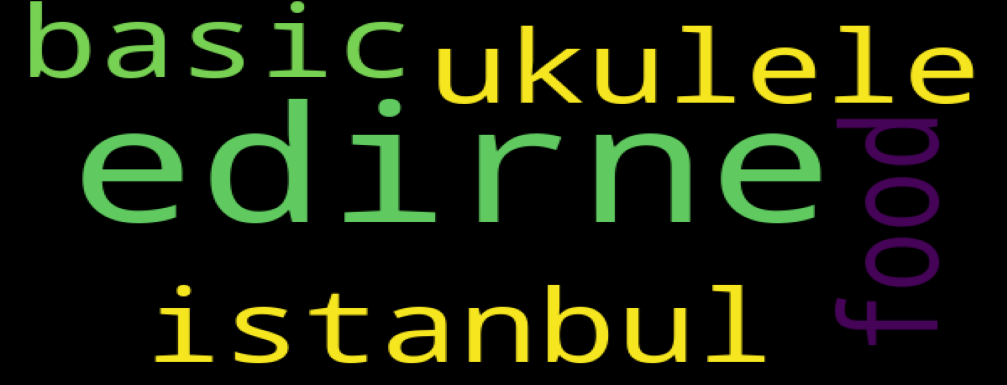
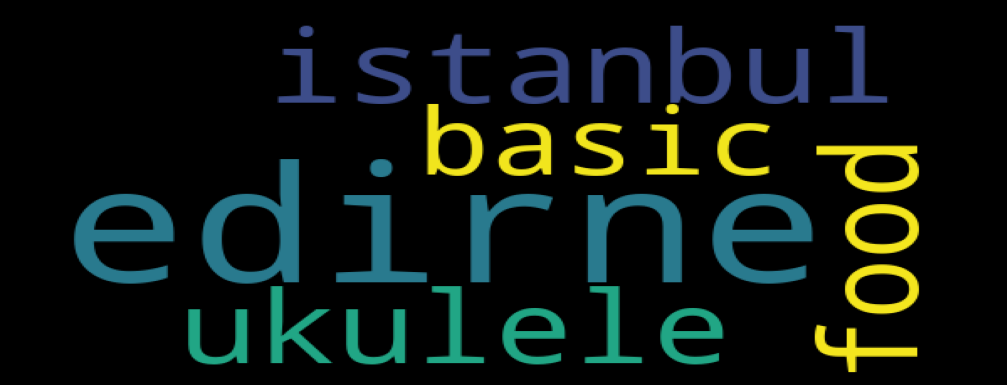
Search logs, hint, wordcloud 2 #228 #230 #231

Changed region(s): [[0.0308, 0.0, 0.9851, 0.9662], [0.2771, 0.0, 0.3078, 0.0312]]

diff --git a/CommUnitySocial/settings.py b/CommUnitySocial/settings.py
@@ -65,6 +65,8 @@ INSTALLED_APPS = [
     'online_users',
     'matplotlib',
     'wiki',
+    'pandas',
+    'wordcloud',
 ]
 
 LOCATION_FIELD = {
